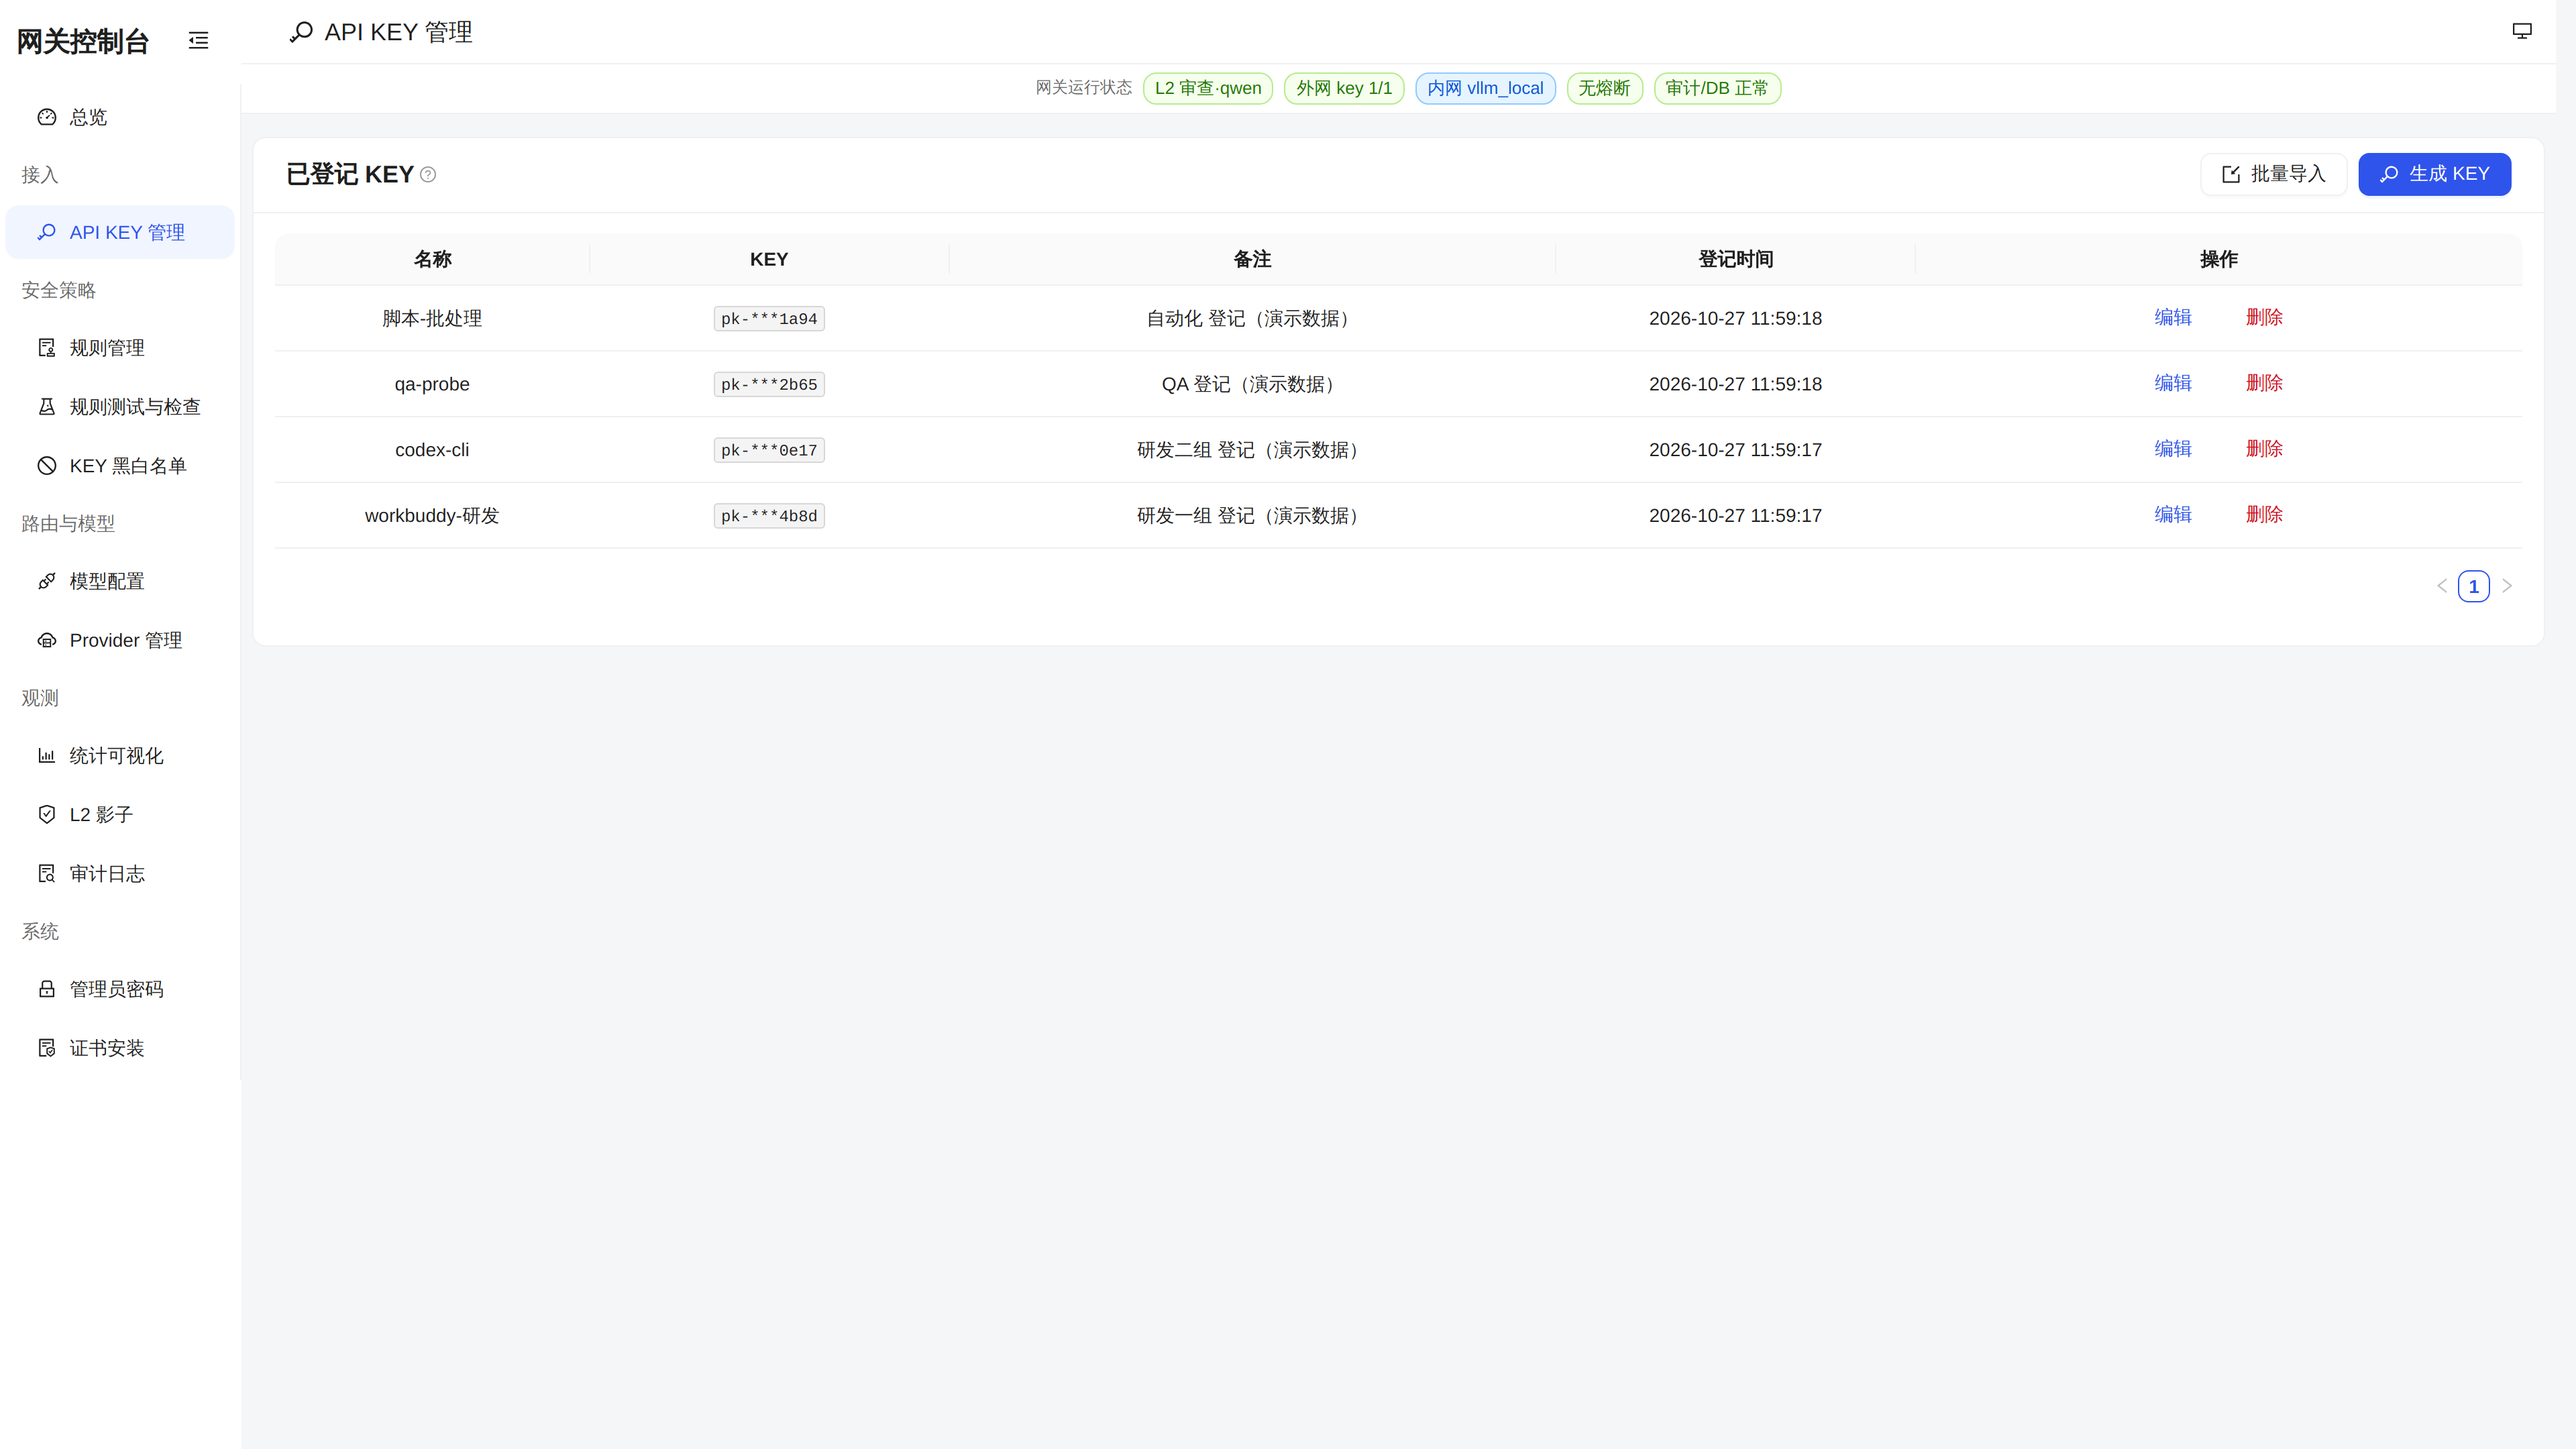
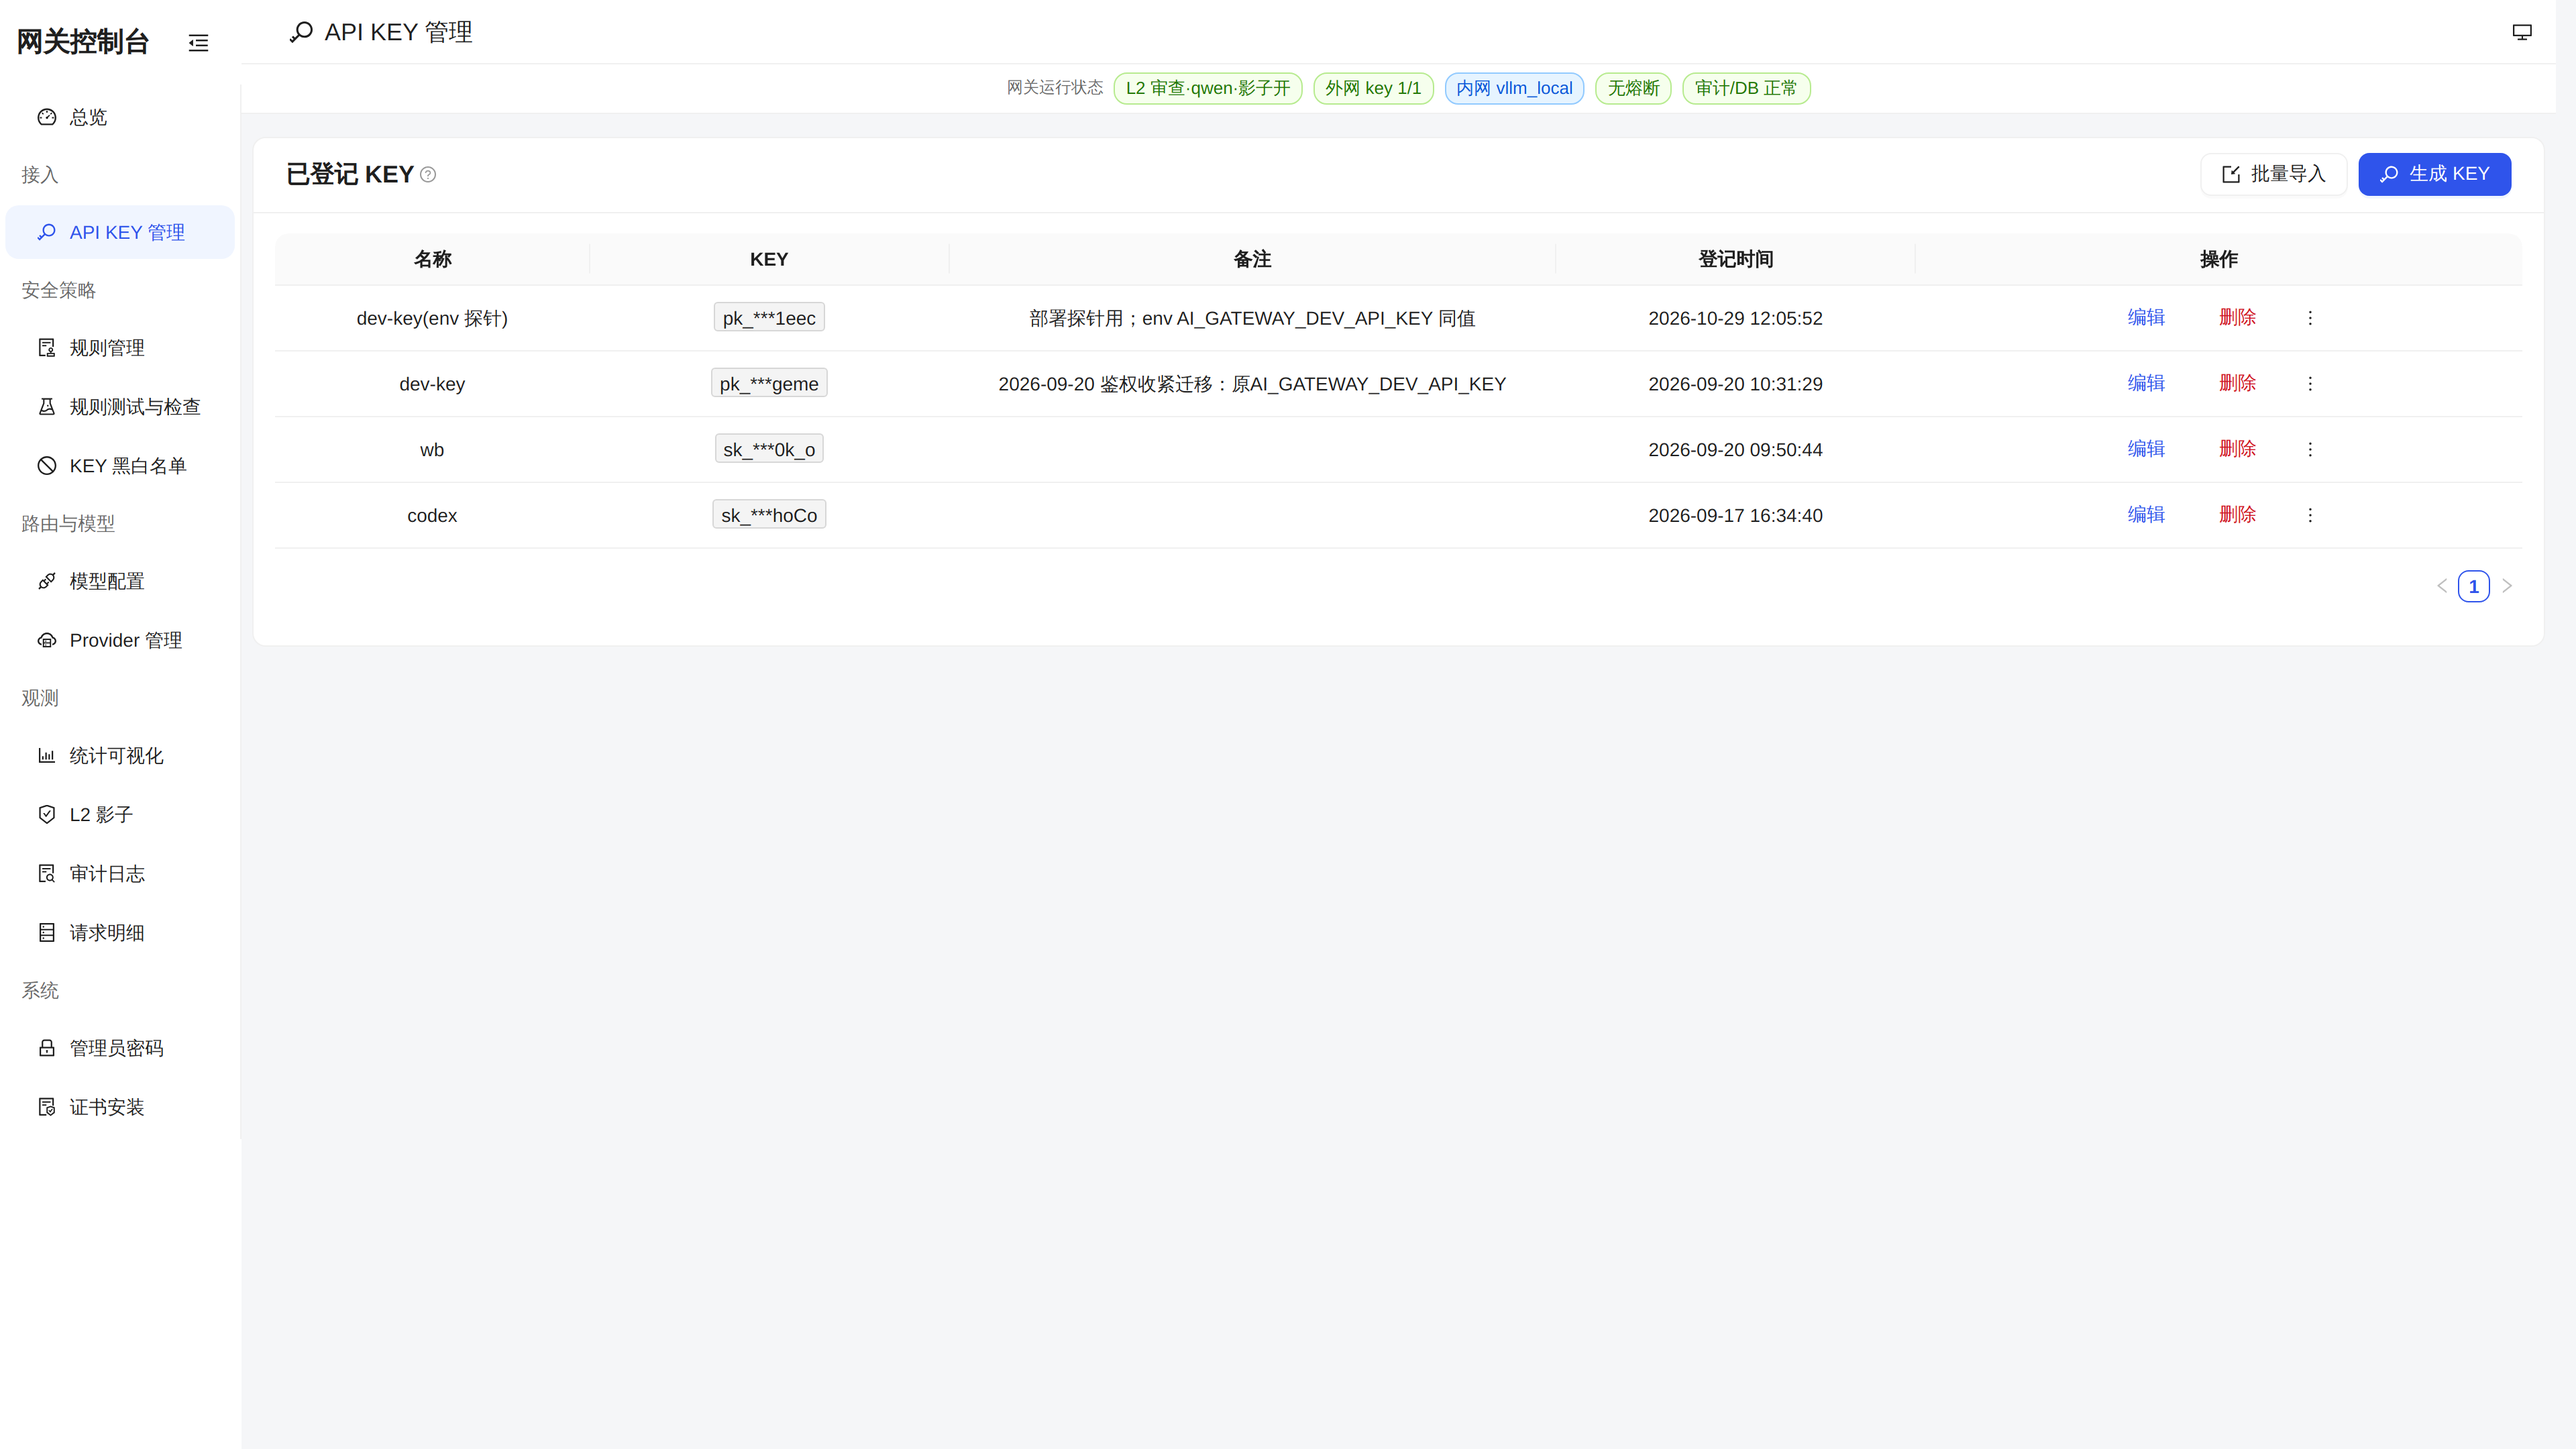
docs(screenshots): 按 2026-10-30 新 UI 重拍 5 页（审计说明行/筛选去全部项、KEY 操作列 ⋯ 菜单、统计图恒定高、规则中文映射、L2 跳转），新增请求明细页截图

diff --git a/README.md b/README.md
@@ -37,6 +37,10 @@
 |---|---|---|
 | ![provider](docs/screenshots/admin-provider.png) | ![keys](docs/screenshots/admin-keys.png) | ![l2](docs/screenshots/admin-l2.png) |
 
+| 请求明细（调用耗时/Token 分解/成本，90 天留存） | | |
+|---|---|---|
+| ![logs](docs/screenshots/admin-logs.png) | | |
+
 ## 特性
 
 - **文件维度预检**：xlsx 表名/表头/内容、PDF 文本层/水印、docx、图片 OCR（tesseract/paddle，
